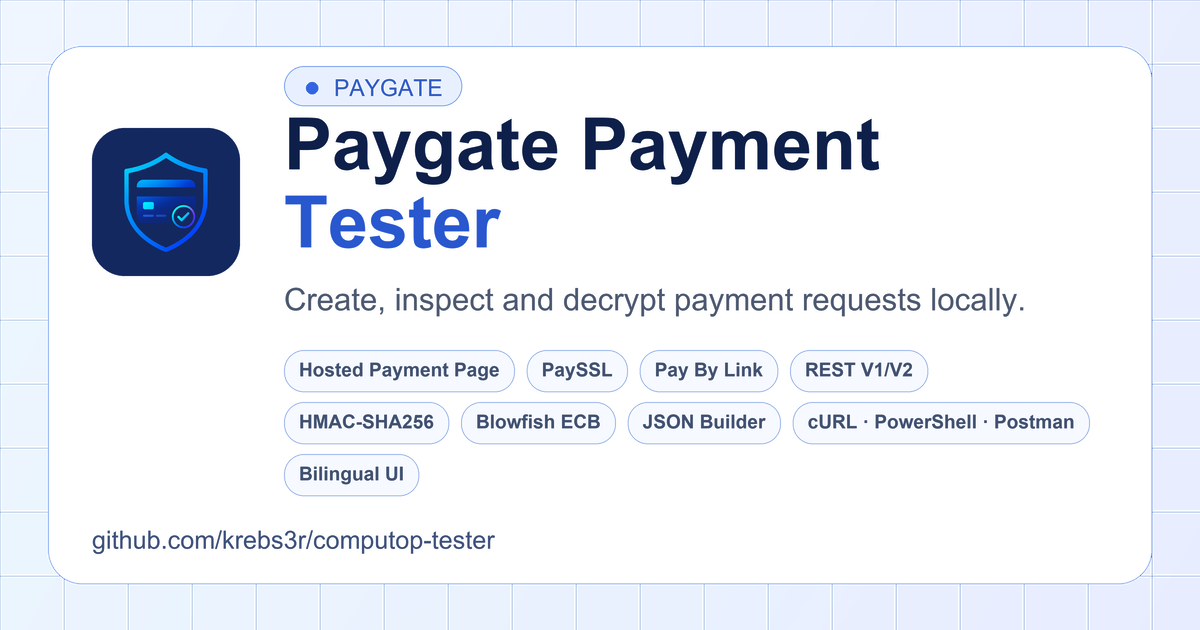
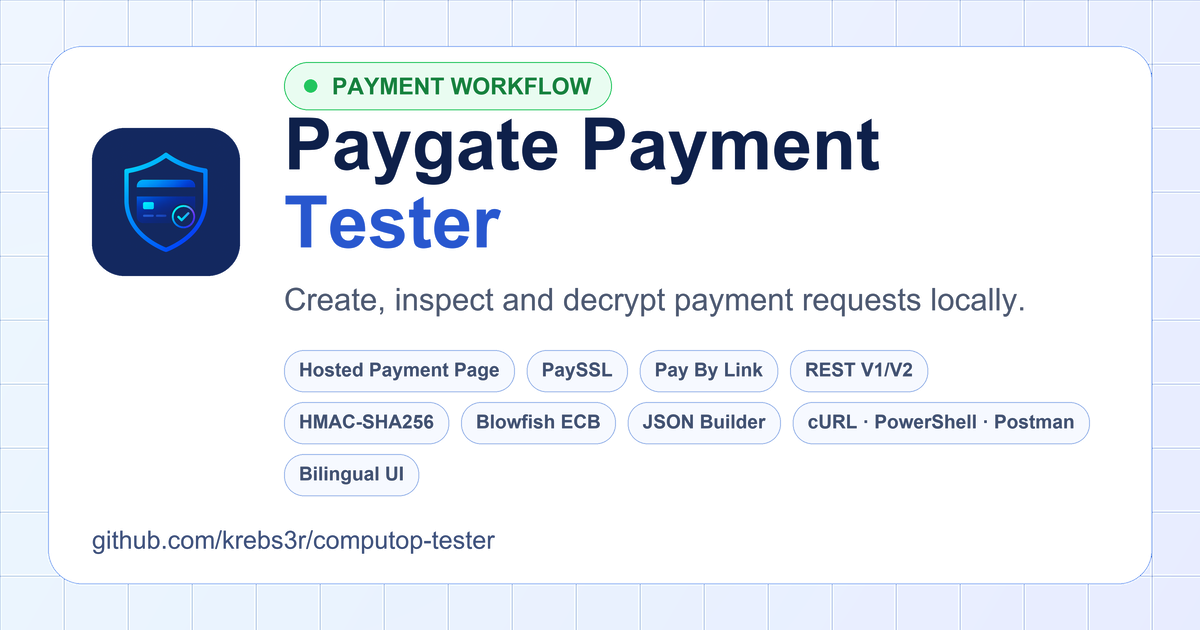
Polish guide and OG workflow badges

Changed region(s): [[0.2467, 0.0905, 0.4933, 0.181]]

diff --git a/index.html b/index.html
@@ -725,6 +725,10 @@
     html.light .nav-interface-badge.rest {
       border-color:rgba(217,119,6,.30); background:rgba(217,119,6,.09); color:#b45309;
     }
+    .nav-interface-badge.guide {
+      border: 1px solid rgba(139,92,246,.28); background: rgba(139,92,246,.1); color: #a78bfa;
+    }
+    html.light .nav-interface-badge.guide { color: #7c3aed; }
     .nav-link[data-nav-group="guide"]::after {
       content: 'Guide';
       border: 1px solid rgba(139,92,246,.28); background: rgba(139,92,246,.1); color: #a78bfa;
@@ -4085,14 +4089,14 @@
 
 <main class="standalone-view" id="help-view" hidden>
   <div class="standalone-view-header">
-    <div class="standalone-header-layout">
+    <div class="standalone-header-layout has-header-nav-badges">
       <div class="app-header-icon brand-header-icon" aria-hidden="true">
         <img class="brand-mark-original" src="icons/app-icon.svg" alt="">
         <img class="brand-logo brand-logo-color" src="assets/nexi/logos/nexi-color.png" alt="">
         <img class="brand-logo brand-logo-white" src="assets/nexi/logos/nexi-white.png" alt="">
       </div>
       <div class="standalone-header-copy">
-        <div class="badge">Paygate</div>
+        <div class="nav-interface-badges header-nav-badges" aria-label="Guide"><span class="nav-interface-badge guide">Guide</span></div>
         <h1 id="help-title">Hilfe &amp; Dokumentation</h1>
         <p id="help-subtitle">Integration wählen, App bedienen und sicher testen</p>
       </div>